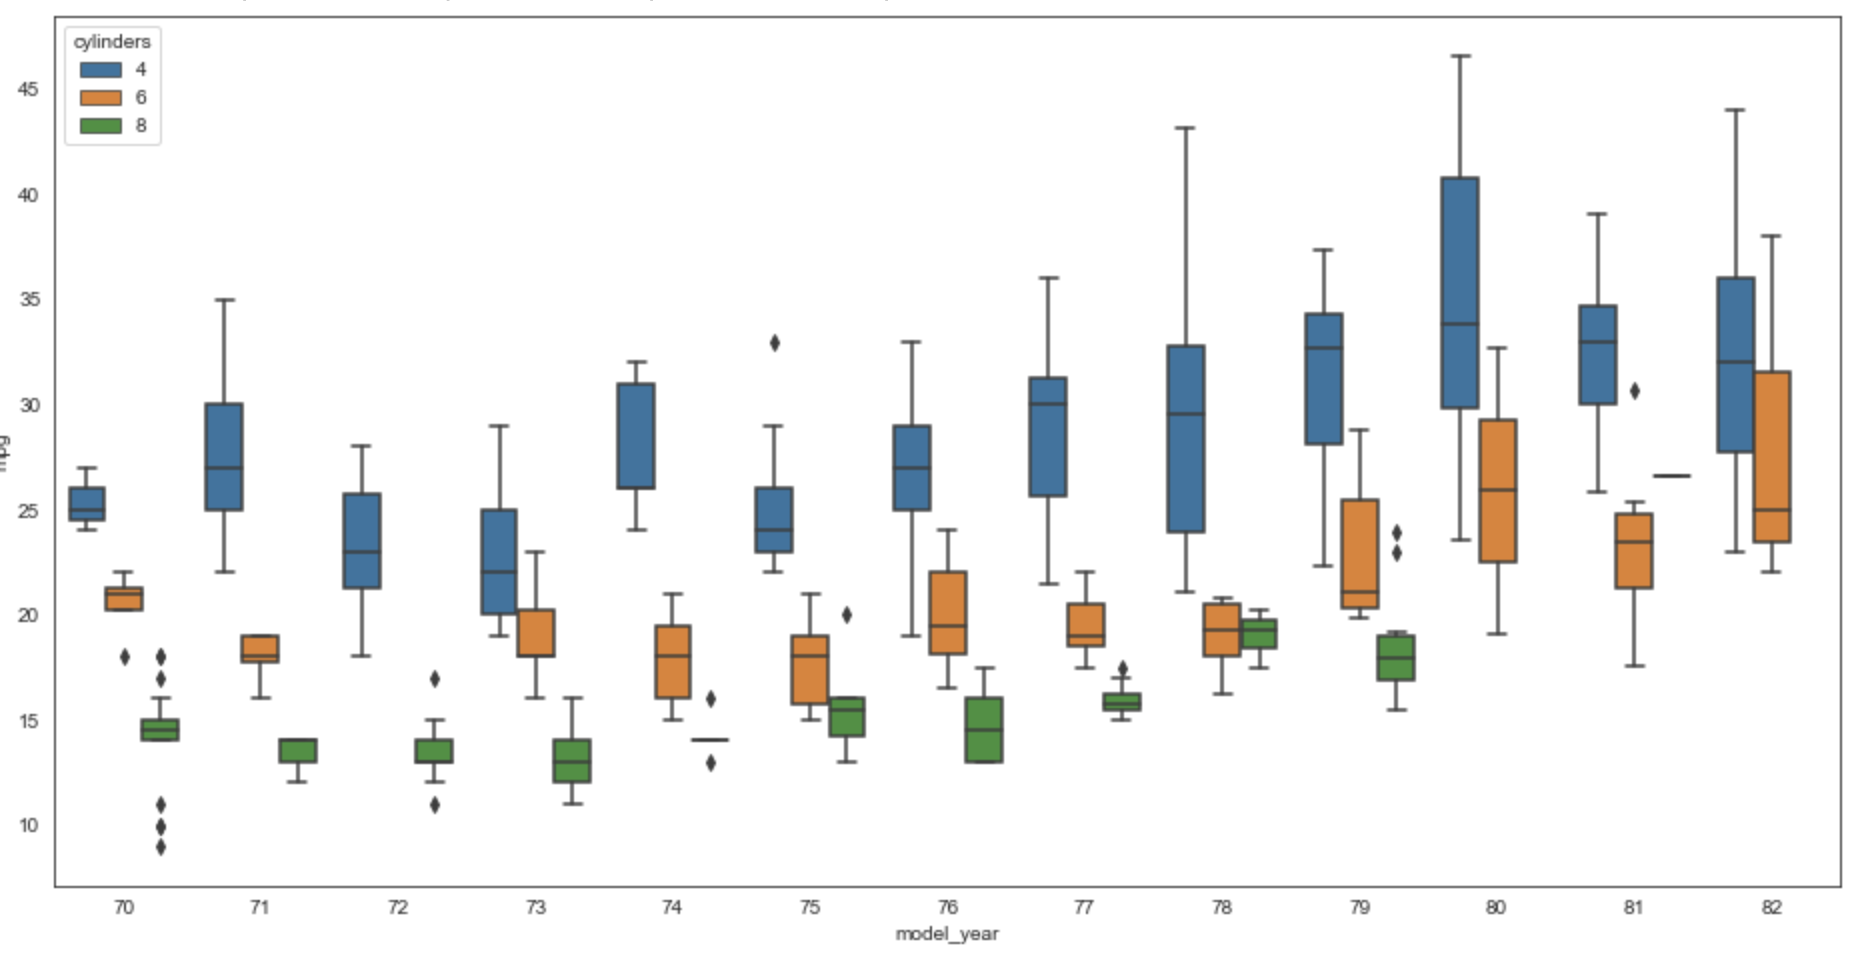
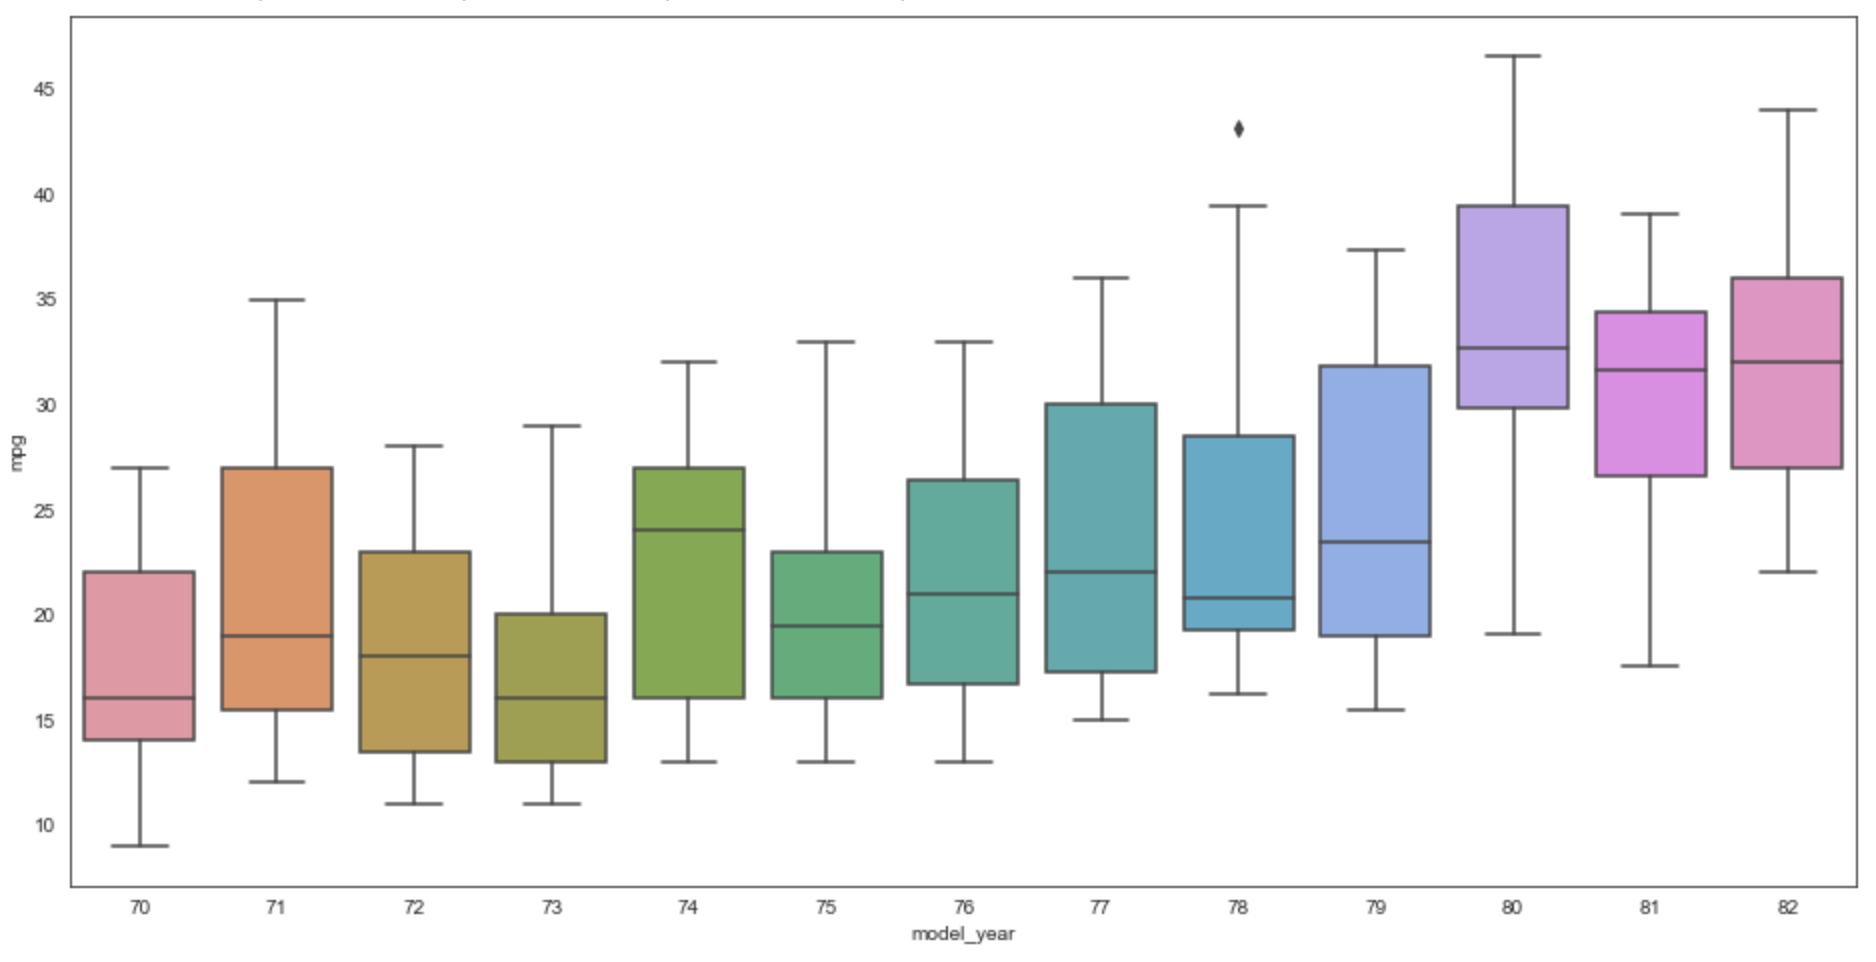
more seaborn

diff --git a/src/python/seaborn.md b/src/python/seaborn.md
@@ -156,7 +156,8 @@ The default context is “notebook”.
 Other contexts are “paper”, “talk”, and “poster”,
 which scale values used by "notebook" by 0.8, 1.3, and 1.6, respectively.
 
-Explicitly setting the context to "notebook" makes everything much larger than expected!
+Explicitly setting the context to "notebook"
+makes everything much larger than expected!
 
 ## Removing/Moving Spines
 
@@ -185,7 +186,7 @@ By default, Seaborn supports six variations of matplotlib palettes.
 These are "deep", "muted", "pastel", "bright", "dark", and "colorblind".
 The colors in each palette can be viewed at
 {% aTargetBlank "https://seaborn.pydata.org/tutorial/color_palettes.html",
-{color palettes" %}.
+"color palettes" %}.
 
 One of these color palettes is used in the next example.
 
@@ -303,7 +304,7 @@ print('For cars in 1971, min =', year_71_df['mpg'].min(),
 plt.figure(figsize=(16,8))
 # This will render one box for each hue value within each x value.
 # Statistics are gathered from the y values.
-ax = sns.boxplot(data=subset_df, x='model_year', y='mpg', hue='cylinders')
+sns.boxplot(data=subset_df, x='model_year', y='mpg')
 ```
 
 The `print` call above outputs:
@@ -312,9 +313,18 @@ The `print` call above outputs:
 For cars in 1971, min = 12.0 , max = 35.0 , mean = 21.25 , and median = 19.0
 ```
 
-Examine the box for 71 below to verify what is plotted.
+Examine the box for the year 1971 below to verify what is plotted.
 
 ![boxplot](/blog/assets/seaborn-12-boxplot.png)
+
+To plot a separate box for each cylinder value within each year,
+add the `hue` argument as follows:
+
+```python
+sns.boxplot(data=subset_df, x='model_year', y='mpg', hue='cylinders')
+```
+
+![boxplot](/blog/assets/seaborn-12-boxplot2.png)
 
 ## Strip Plot
 
@@ -322,26 +332,25 @@ From the docs, this draws "a scatterplot where one variable is categorical."
 
 In the example below, the categorical variable "model_year".
 
-- Add `dodge=True` to place the dots for each `hue` value in its own column.
-- Add `jitter=True` to spread the dots horizontally a bit farther to reduce overlap.
+Add `dodge=True` to place the dots for each `hue` value in its own column.
+
+Add `jitter=True` to spread the dots horizontally a bit farther to reduce overlap.
 
 ```python
 plt.figure(figsize=(16,8))
-# Setting jitter to True spreads the data points horizontally a bit farther.
 sns.stripplot(data=df, x='model_year', y='mpg', hue='cylinders')
 plt.xlabel('Model Year')
 plt.ylabel('Miles Per Gallon')
 ```
 
-    Text(0, 0.5, 'Miles Per Gallon')
-
 ![stripplot](/blog/assets/seaborn-13-stripplot.png)
 
 ## Colormaps
 
-For options, see {% aTargetBlank
+The matplotlib package provides many pre-built colormaps
+whose names can be used as the value of the `palette` option.
+To see a list of colormap names, see {% aTargetBlank
 "https://matplotlib.org/3.1.0/tutorials/colors/colormaps.html", "colormaps" %}.
-To choose one, add `palette` argument set to a colormap name.
 For example, here is the previous plot using the "hsv" colormap.
 
 ```python
@@ -350,32 +359,6 @@ sns.stripplot(data=df, x='model_year', y='mpg', hue='cylinders', palette='hsv')
 ```
 
 ![colormaps](/blog/assets/seaborn-14-colormaps.png)
-
-## Legend Location
-
-To add a legend to a plot, call `plt.legend()`.
-By default, matplotlib takes its best guess on where to place the legend.
-To override this with a specific location, add the `loc` argument set to a string or a number.
-
-| String | Code |
-| 'best' | 0 |
-| 'upper right' | 1 |
-| 'upper left' | 2 |
-| 'lower left' | 3 |
-| 'lower right' | 4 |
-| 'right' | 5 |
-| 'center left' | 6 |
-| 'center right' | 7 |
-| 'lower center' | 8 |
-| 'upper center' | 9 |
-| 'center' | 10 |
-
-All of these options place the legend inside the plot.
-To display the legend outside of the plot, add the `bbox_to_anchor` argument
-set to a tuple that specifies its x and y location
-with percentages of the plot width and height.
-For example, `bbox_to_anchor=(1, 1)` places the upper-left corner
-of the legend at the top-right corner of the plot.
 
 ## Swarm Plot
 
@@ -398,21 +381,20 @@ Create a matrix `DataFrame` from the original one that contains the correlation 
 and pass this to the `heatmap` method.
 Set the `annot` argument to `True` to display correlation values in the cells.
 Every column has strong correlation with itself, receiving a value of 1.
-Cells with darker colors indicate strong correlation between
-the column name to the left of the cell and the column name below the cell.
+Depending on the colormap, cells with darker colors typically indicate
+strong correlation between the column name to the left of the cell
+and the column name below the cell.
 
-The example below shows the following:
-
-- The value that most affects `mpg` is `model_year`.
-- There is a strong correlation between `displacement` and `cylinders`.
-- There is a weak correlation between `horsepower` and `acceleration`.
+We can build a correlation matrix by call the `corr` method on the `DataFrame`.
 
 ```python
 matrix = df.corr()
 print(matrix)
-sns.heatmap(matrix, annot=True, cmap='YlOrRd', linecolor='white', linewidth=1)
 ```
 
+This outputs the following correlation values:
+
+```text
                        mpg  cylinders  displacement  horsepower    weight  \
     mpg           1.000000  -0.775396     -0.804203   -0.778427 -0.831741
     cylinders    -0.775396   1.000000      0.950721    0.842983  0.896017
@@ -430,17 +412,31 @@ sns.heatmap(matrix, annot=True, cmap='YlOrRd', linecolor='white', linewidth=1)
     weight           -0.417457   -0.306564
     acceleration      1.000000    0.288137
     model_year        0.288137    1.000000
+```
+
+We can use this correlation matrix to
+produce a heat map plot with the following:
+
+```python
+sns.heatmap(matrix, annot=True, cmap='YlOrRd', linecolor='white', linewidth=1)
+```
 
 ![heatmap from correlation](/blog/assets/seaborn-16-heatmap-from-correlation.png)
 
+This heat map shows the following:
+
+- The value that most affects `mpg` is `model_year`.
+- There is a strong correlation between `displacement` and `cylinders`.
+- There is a weak correlation between `horsepower` and `acceleration`.
+
 ## Heatmap Plot from a Pivot Table
 
-This approach to creating a heat map is useful when the correlation we wish to show is between specific values of a given column.
+Creating a heat map from a pivot table is useful when the correlation
+we wish to show is between specific values of a given column.
+
 For example, we can correlate `model_year` and `cylinders` to `mpg`.
 Note that some cells have no value because there are no cars in the dataset
 for that combination of `model_year` and `cylinders`.
-The example below shows that in this dataset
-the highest `mpg` comes from 1980 cars with 5 cylinders.
 
 ```python
 matrix = df.pivot_table(columns='model_year', index='cylinders', values='mpg')
@@ -449,15 +445,15 @@ sns.heatmap(matrix, annot=True, cmap='YlOrRd')
 
 ![heatmap from pivot table](/blog/assets/seaborn-17-heatmap-from-pivot-table.png)
 
+This plot shows that in this dataset
+the highest `mpg` comes from 1980 cars with 5 cylinders.
+
 ## Cluster Map
 
-From the docs, this plots "a matrix dataset as a hierarchically-clustered heatmap."
-It is very similar to the "Heat map from correlation data" example above,
+From the docs, this plots
+"a matrix dataset as a hierarchically-clustered heatmap."
+It is very similar to the "Heat Map from Correlation Data" example above,
 but it clusters like data points by reordering the rows and columns.
-
-The meaning of the grouping brackets on the left and top sides of the plot
-are not clear to me.
-I know they represent clusters of data, but what does that mean?
 
 ```python
 matrix = df.corr()
@@ -466,38 +462,52 @@ sns.clustermap(matrix, annot=True, cmap='YlOrRd')
 
 ![clustermap](/blog/assets/seaborn-18-clustermap.png)
 
+The meaning of the grouping brackets on the left and top sides of the plot
+are not clear to me.
+I know they represent clusters of data,
+but what is the criteria for clustering?
+
 ## PairGrid Plot
 
-The creates many plots of a specific kind for each combination of two columns.
+A `PairGrid` plot creates many plots of a specific kind
+for each combination of two columns.
+
+To limit the columns in the `DataFrame` that are mapped to plot columns,
+add the `x_vars` argument whose value is a list of column names.
+
+To limit the columns in the `DataFrame` that are mapped to plot rows,
+add the `y_vars` argument whose value is a list of column names.
+
 For example, we can choose to create scatter plots where
 the color of each dot is determined by the `mpg` value.
-Focusing on one of the generated plots, the one in the lower-left shows
-the `mpg` using colors for combinations of `cylinder` and `model_year` values.
-It shows that for a given number of cylinders, the mpg average
-has tended to increase for newer model years.
-
-To limit the columns that are mapped to columns, add the `x_vars` argument whose value is a list of column names.
-
-To limit the columns that are mapped to rows, add the `y_vars` argument whose value is a list of column names.
-
-Compare this to Pair plot described earlier.
 
 ```python
 mpg_grid = sns.PairGrid(
     df, hue='mpg', palette='YlOrRd',
     x_vars=['cylinders', 'horsepower', 'model_year'],
-    y_vars=['horsepower', 'weight', 'acceleration'])
+    y_vars=['horsepower', 'weight', 'model_year'])
 mpg_grid.map(plt.scatter)
 ```
 
 ![PairGrid](/blog/assets/seaborn-19-PairGrid.png)
 
+Compare this to Pair plot described earlier.
+
+Focusing on one of the generated plots below, the one in the lower-left
+shows `mpg` values using various colors
+for combinations of `cylinder` and `model_year` values.
+It shows that for a given number of cylinders, the mpg average
+has tended to increase for newer model years.
+
 ## FacetGrid Plot
 
-From the docs, this is a "multi-plot grid for plotting conditional relationships."
+From the docs, this is a
+"multi-plot grid for plotting conditional relationships."
 
-In the example below there is one plot for each combination of `cylinders` and `model_year`.
-Each plot is a scatter plot where the x-axis is `horsepower` and the y-axis is mpg`.
+In the example below there is one plot for
+each combination of `cylinders` and `model_year`.
+Each plot is a scatter plot where
+the x-axis is `horsepower` and the y-axis is `mpg`.
 
 ```python
 # Get the subset of the data that excludes 3 and 5 cylinder cars
@@ -519,8 +529,6 @@ In the example below we plot a point for each car
 where the x-axis is `model_year` and the y-axis is `mpg`.
 The color of each point is based its `cylinders` value.
 Each regression line shows the change in `mpg` for a given `cylinders` value.
-This shows that `mpg` has improved more rapidly for 4 cylinder cars
-than for cars with more cylinders.
 
 ```python
 cylinders = [4, 6, 8] # not interested in 3 or 5 cylinder cars
@@ -530,8 +538,13 @@ sns.lmplot(data=subset_df, x='model_year', y='mpg', hue='cylinders')
 
 ![lmplot](/blog/assets/seaborn-21-lmplot.png)
 
+This shows that `mpg` has improved more rapidly for 4 cylinder cars
+than for cars with more cylinders.
+
 To show separate plots for each unique value of a given column,
 add the `col` argument set to that column name.
+For example, the following renders a separate plot
+for each value found in the `cylinders` column.
 
 ```python
 sns.lmplot(data=subset_df, x='model_year', y='mpg', hue='cylinders', col='cylinders')

diff --git a/src/python/matplotlib.md b/src/python/matplotlib.md
@@ -68,6 +68,34 @@ Other keyboard shortcuts include:
 | toggle x-axis scale between linear and log;<br>mouse cursor must be over plot | L or k            |
 | toggle y-axis scale between linear and log;<br>mouse cursor must be over plot | l (lowercase L)   |
 
+## Legends
+
+To add a legend to a plot, call `plt.legend()`.
+By default, matplotlib takes its best guess on where to place the legend.
+To override this with a specific location,
+add the `loc` argument set to a string or a number.
+
+| String         | Code |
+| -------------- | ---- |
+| 'best'         | 0    |
+| 'upper right'  | 1    |
+| 'upper left'   | 2    |
+| 'lower left'   | 3    |
+| 'lower right'  | 4    |
+| 'right'        | 5    |
+| 'center left'  | 6    |
+| 'center right' | 7    |
+| 'lower center' | 8    |
+| 'upper center' | 9    |
+| 'center'       | 10   |
+
+All of these options place the legend inside the plot.
+To display the legend outside of the plot, add the `bbox_to_anchor` argument
+set to a tuple that specifies its x and y location
+with percentages of the plot width and height.
+For example, `bbox_to_anchor=(1, 1)` places the upper-left corner
+of the legend at the top-right corner of the plot.
+
 ## Line Charts
 
 To create a basic line chart:
